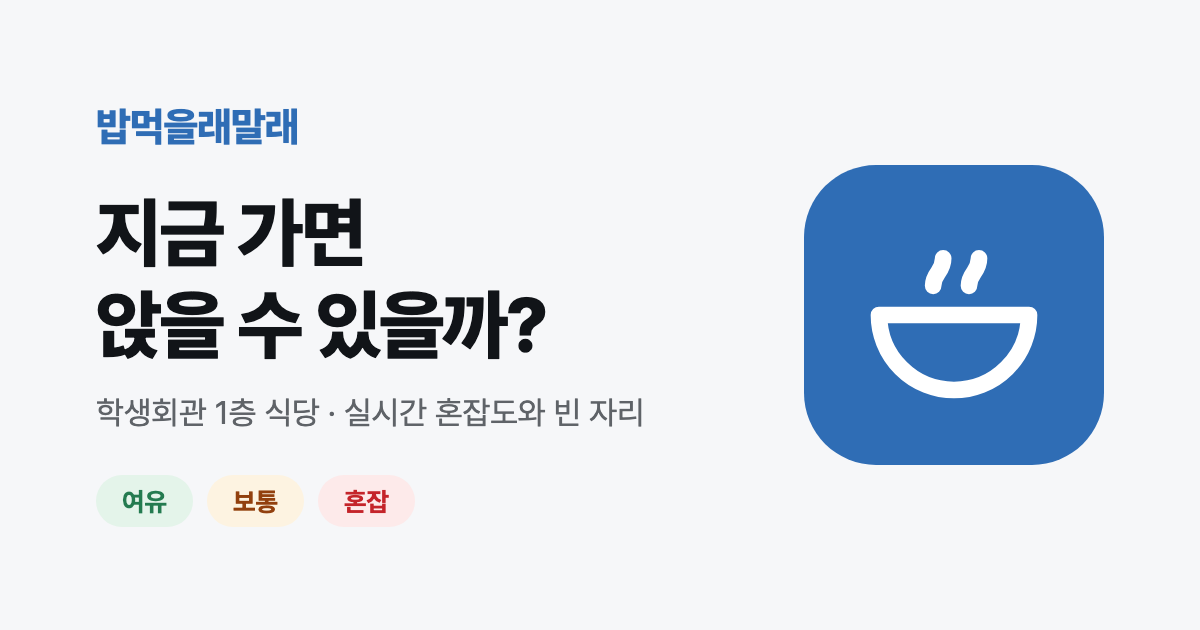
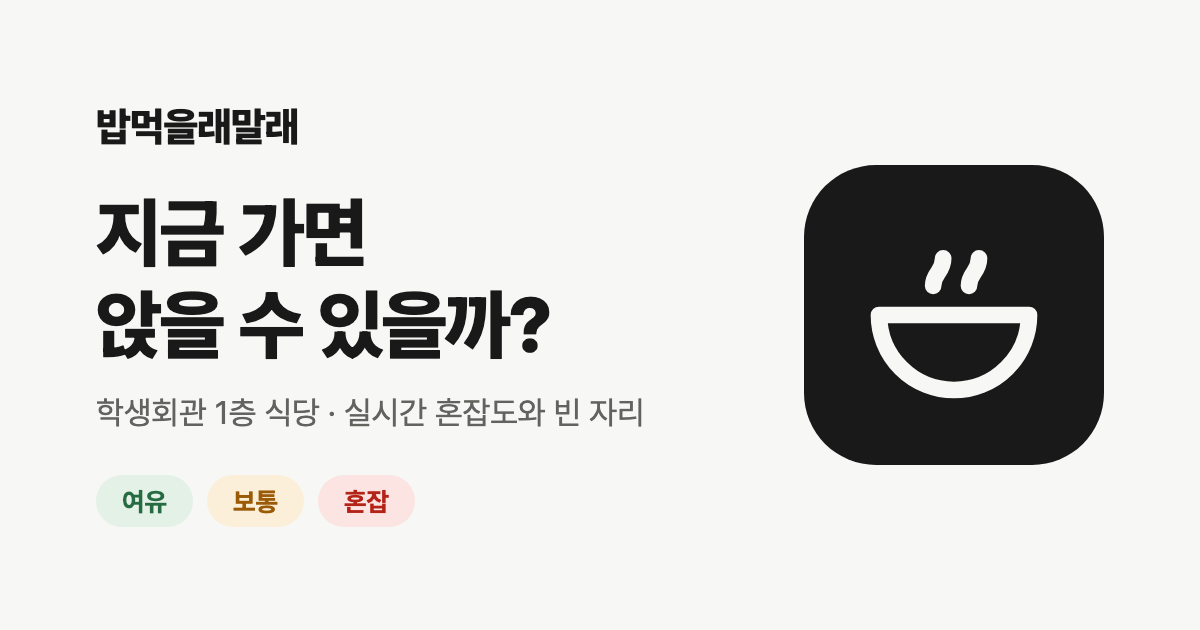
design: 디자인 기준(DESIGN.md·PRODUCT.md) 도입, 흰 바탕 + 먹색으로 개편
- DESIGN.md: 색·글꼴·간격·움직임 규칙과 쓰지 않는 것 다섯 가지, PRODUCT.md: 대상·질문 순서·느낌
- 색: 회백색 바탕(#F7F7F5) + 흰 면 + 먹색(#191919). 초록·노랑·빨강은 여유·보통·혼잡에만
- 글꼴: 제목·숫자 Wanted Sans, 본문 Pretendard (가변 글꼴)
- 판정 칸만 면으로, 그래프·자리 현황·의견은 바탕 위 제목 + 가는 선 (카드 안 카드 제거), 그림자·블러 제거
- 색 바탕 위 글자는 회색 대신 단계 글자색, 집계 안 함 빗금은 중립 회색
- 선택 버튼·지금 막대·사용 중 자리·로고를 먹색으로, 아이콘·공유 이미지·오프라인 화면 새 색
- 작은 휴대폰(360px 이하) 크기 조정, 오프라인 캐시 v3

diff --git a/cafeteria-server/index.html b/cafeteria-server/index.html
@@ -5,7 +5,7 @@
 <meta name="viewport" content="width=device-width, initial-scale=1, viewport-fit=cover">
 <title>밥먹을래말래 · 학생회관 1층 식당</title>
 <meta name="description" content="지금 가면 앉을 수 있을까? 학생회관 1층 식당의 혼잡도와 빈 자리를 실시간으로 보여줘요.">
-<meta name="theme-color" id="themeColor" content="#ffffff">
+<meta name="theme-color" id="themeColor" content="#F7F7F5">
 <link rel="icon" href="/static/icon.svg" type="image/svg+xml">
 <link rel="icon" href="/static/icon-32.png" sizes="32x32" type="image/png">
 <link rel="apple-touch-icon" href="/static/icon-180.png">
@@ -29,7 +29,8 @@
 try{const t=localStorage.getItem("theme"),q=new URLSearchParams(location.search).get("dark");
 if(q==="1"||t==="dark"||(!t&&q!=="0"&&matchMedia("(prefers-color-scheme: dark)").matches))document.documentElement.dataset.dark="1";}catch(e){}
 </script>
-<link rel="stylesheet" href="https://cdn.jsdelivr.net/gh/orioncactus/pretendard@v1.3.9/dist/web/static/pretendard.min.css">
+<link rel="stylesheet" href="https://cdn.jsdelivr.net/gh/orioncactus/pretendard@v1.3.9/dist/web/variable/pretendardvariable-dynamic-subset.min.css">
+<link rel="stylesheet" href="https://cdn.jsdelivr.net/gh/wanteddev/wanted-sans@v1.0.3/packages/wanted-sans/fonts/webfonts/variable/split/WantedSansVariable.min.css">
 <style>
 /* 디자인 기준: 앱 화면 규칙 (평평한 면, 색은 데이터·상태에만, 글자 크기 12/14/16/24/32, 4px 단위 간격) */
 :root{
@@ -531,6 +532,112 @@ html[data-dark] .a2hs{border:1px solid var(--border)}
   .zaxis .pad{width:36px}
   .zpct{display:none}
   .a2hs{margin-bottom:12px}
+}
+
+/* ══ 디자인 기준 (DESIGN.md, 11/6): 흰 바탕 + 먹색, 색은 상태에만, 카드 안의 카드 없음 ══ */
+:root{
+  --ground:#F7F7F5;--surface:#FFFFFF;--raised:#F1F1EE;--active:#E9E9E5;
+  --border:#E6E6E2;--rule:#ECECE8;--control:#CFCFCA;
+  --text:#191919;--muted:#62625E;--faint:#6F6F69;
+  --data:#191919;--data-2:#C8C8C2;--data-tint:rgba(25,25,25,.07);--on-data:#FFFFFF;
+  --ok:#276B43;--ok-fill:#2E8B57;--ok-bg:#E7F3EA;
+  --mid:#9A5A06;--mid-fill:#D99A2B;--mid-bg:#FBEFD9;
+  --busy:#B42318;--busy-fill:#D0402F;--busy-bg:#FBE4E1;
+  --seat-bg:#FFFFFF;--map-line:#D6D6D1;--fx:#EDEDE9;--unm-bg:#EFEFEC;--unm-line:#B5B5AF;
+  --grid-ink:rgba(25,25,25,.06);--usual:#E7E7E2;
+  --r-card:14px;--r-ctl:10px;--shadow:none;
+  --font-head:"Wanted Sans Variable","Wanted Sans","Pretendard Variable",Pretendard,sans-serif;
+}
+html[data-dark]{
+  --ground:#111111;--surface:#1A1A1A;--raised:#212121;--active:#2A2A2A;
+  --border:#2E2E2E;--rule:#272727;--control:#474747;
+  --text:#F2F2F0;--muted:#B3B3AE;--faint:#8F8F8A;
+  --data:#F2F2F0;--data-2:#55554F;--data-tint:rgba(242,242,240,.08);--on-data:#111111;
+  --ok:#5CC48A;--ok-fill:#3FA86E;--ok-bg:#16261C;
+  --mid:#F0B452;--mid-fill:#D99A35;--mid-bg:#2B2213;
+  --busy:#F07A6E;--busy-fill:#E0574A;--busy-bg:#2E1714;
+  --seat-bg:#1A1A1A;--map-line:#393936;--fx:#242424;--unm-bg:#202020;--unm-line:#4A4A47;
+  --grid-ink:rgba(255,255,255,.07);--usual:#2B2B29;--shadow:none;
+}
+body{font-family:"Pretendard Variable",Pretendard,-apple-system,"Apple SD Gothic Neo",sans-serif;letter-spacing:-.005em}
+/* 제목·숫자 글꼴 */
+.say strong,.kpi b,.zcard .zc-free,.card-head h2,.brand b,.sheet-head h2,.zpeaks-head h3,.a2hs-t b,.now-tag,.yaxis,.xlabels{font-family:var(--font-head)}
+.say strong{font-weight:800;letter-spacing:-.025em}
+.kpi b,.zcard .zc-free{font-weight:750;letter-spacing:-.02em;font-variant-numeric:tabular-nums}
+.card-head h2{font-size:20px;line-height:28px;font-weight:750;letter-spacing:-.02em}
+.brand b{font-weight:800}
+/* 머리글: 바탕과 같은 색, 블러 장식 없음 */
+.topbar{background:var(--ground);-webkit-backdrop-filter:none;backdrop-filter:none;border-bottom:1px solid var(--rule)}
+.mark .logo,.sheet-head .logo,.a2hs-ic{background:var(--data);border-radius:10px}
+.mark .logo svg,.sheet-head .logo svg,.a2hs-ic svg{color:var(--on-data)!important}
+/* 판정 칸만 면으로 띄우고, 나머지 구역은 바탕 위에 제목 + 내용 + 가는 선 */
+.card{box-shadow:none}
+.card.answer{background:var(--surface);border:1px solid var(--border)}
+#chartCard,#seats,#fb{background:transparent;border:0;border-radius:0;padding:28px 4px 0;border-top:1px solid var(--rule)}
+.grid{gap:28px}
+/* 판정: 단계 바탕 위 글자는 회색 대신 단계 글자색 */
+.answer[data-level="여유"] .lead,.answer[data-level="여유"] .trend,.answer[data-level="여유"] .occ-labels{color:var(--ok)}
+.answer[data-level="보통"] .lead,.answer[data-level="보통"] .trend,.answer[data-level="보통"] .occ-labels{color:var(--mid)}
+.answer[data-level="혼잡"] .lead,.answer[data-level="혼잡"] .trend,.answer[data-level="혼잡"] .occ-labels{color:var(--busy)}
+.answer[data-level] .trend svg{color:currentColor}
+.answer[data-level] .occ-track{background:rgba(255,255,255,.65)}
+html[data-dark] .answer[data-level] .occ-track{background:rgba(0,0,0,.25)}
+.verdict .pill{background:var(--surface)}
+.kpi small{color:var(--muted)}
+.kpis{border-top-color:var(--rule)}
+.kpi+.kpi{border-left-color:var(--rule)}
+.counters{border-top-color:var(--rule)}
+.cchip{background:var(--surface)}
+.cchip.on{background:var(--ok-bg)}
+/* 버튼: 기본은 먹색, 선택된 버튼도 먹색으로 채움 */
+button.btn{border-color:var(--border);background:var(--surface)}
+.btn.primary{background:var(--data);border-color:var(--data);color:var(--on-data)}
+.btn.toggle{color:var(--muted)}
+.btn.toggle[aria-pressed="true"]{background:var(--data);border-color:var(--data);color:var(--on-data)}
+.btn.icon{background:transparent;border-color:transparent}
+.zone-tabs .btn{border-radius:999px}
+/* 구역 카드: 바탕 위 첫 번째 면 (카드 안 카드 아님) */
+.zcard{background:var(--surface);border:1px solid var(--border);border-radius:var(--r-ctl)}
+.zcard[aria-pressed="true"]{border-color:var(--data);box-shadow:inset 0 0 0 1px var(--data)}
+.map{background:var(--surface);border:1px solid var(--border)}
+.map .seat.occ rect{fill:var(--data);stroke:var(--data)}
+.map .seat.emp rect{stroke:var(--text);stroke-opacity:.55}
+.map .zone.sel rect{stroke:var(--data);fill:var(--data-tint)}
+.map .zone.sel text{fill:var(--text)}
+.tlegend i.emp{border-color:var(--text);opacity:.7}
+.tlegend i.occ{background:var(--data);border-color:var(--data)}
+/* 그래프: 먹색 "지금", 지난 시간은 따뜻한 회색 */
+.bar.now{background:var(--data)}
+.now-tag{color:var(--text)}
+.legend i.past{background:var(--data-2)}
+.zbusy{background:var(--data)}
+/* 피드백 · 시트 · 홈 화면 띠: 면 하나씩만 */
+.fb{border-radius:0}
+.a2hs{background:var(--surface);border:1px solid var(--border);box-shadow:none}
+.sheet{background:var(--surface)}
+.sheet .privacy{background:var(--ok-bg)}
+.sheet .privacy p{color:var(--ok);opacity:.9}
+.netbar{border-bottom-color:var(--rule)}
+footer{border-top:0}
+/* 집계 안 하는 곳: 상태 색 대신 중립 빗금 */
+.map .blind rect{stroke:var(--faint);stroke-opacity:.45}
+.map .blind text{fill:var(--faint)}
+.tlegend i.blind{background:repeating-linear-gradient(45deg,var(--raised) 0 3px,var(--active) 3px 6px);border:1.5px dashed var(--faint)}
+@media (max-width:600px){
+  #chartCard,#seats,#fb{padding:24px 4px 0}
+  .grid{gap:24px}
+  .card-head h2{font-size:19px}
+  .kpi b{font-size:24px;line-height:30px}
+  .say strong{font-size:28px;line-height:36px}
+}
+/* 작은 휴대폰 (아이폰 SE 등) */
+@media (max-width:360px){
+  .brand small{display:none}
+  .say strong{font-size:25px;line-height:32px}
+  .kpi{padding:12px 8px 14px}
+  .kpi b{font-size:20px;line-height:26px}
+  .zcard .zc-free{font-size:19px}
+  .zcard .zc-sub{font-size:11px}
 }
 </style>
 </head>
@@ -1039,7 +1146,7 @@ function renderMap(states, zones){
   const box = $("map"), L = LAYOUT;
   const svg = mk("svg", {viewBox: `0 0 ${L.w} ${L.h}`, role: "img", "aria-label": "식당 자리 배치도"});
   svg.innerHTML = `<defs><pattern id="hatch" width="8" height="8" patternUnits="userSpaceOnUse" patternTransform="rotate(45)">
-    <rect width="8" height="8" fill="var(--busy-bg)"/><line x1="0" y1="0" x2="0" y2="8" stroke="var(--busy)" stroke-opacity=".4" stroke-width="1.4"/></pattern></defs>`;
+    <rect width="8" height="8" fill="var(--raised)"/><line x1="0" y1="0" x2="0" y2="8" stroke="var(--faint)" stroke-opacity=".35" stroke-width="1.4"/></pattern></defs>`;
   const R = L.room || {x: 4, y: 4, w: L.w - 8, h: L.h - 8};
   svg.appendChild(mk("rect", {x: R.x, y: R.y, width: R.w, height: R.h, class: "room", "stroke-width": 2, rx: 8}));
   (L.zones || []).forEach(z => {
@@ -1392,7 +1499,7 @@ function applyTheme(dark){
   const h = document.documentElement;
   if (dark) h.dataset.dark = "1"; else delete h.dataset.dark;
   $("themeBtn").setAttribute("aria-label", dark ? "밝은 화면으로 전환" : "어두운 화면으로 전환");
-  $("themeColor").setAttribute("content", dark ? "#141414" : "#ffffff");
+  $("themeColor").setAttribute("content", dark ? "#111111" : "#F7F7F5");
 }
 applyTheme(!!document.documentElement.dataset.dark);
 $("themeBtn").addEventListener("click", () => {

diff --git a/cafeteria-server/static/offline.html b/cafeteria-server/static/offline.html
@@ -2,15 +2,15 @@
 <html lang="ko"><head><meta charset="utf-8"><meta name="viewport" content="width=device-width, initial-scale=1, viewport-fit=cover">
 <title>밥먹을래말래 · 연결 없음</title>
 <style>
-:root{--bg:#f2f4f6;--card:#fff;--text:#111418;--muted:#5f6368;--blue:#2f6db5}
-@media (prefers-color-scheme:dark){:root{--bg:#0a0a0a;--card:#141414;--text:#f2f2f2;--muted:#b0b0b0;--blue:#5b9bea}}
+:root{--bg:#F7F7F5;--card:#FFFFFF;--text:#191919;--muted:#62625E;--blue:#191919}
+@media (prefers-color-scheme:dark){:root{--bg:#111111;--card:#1A1A1A;--text:#F2F2F0;--muted:#B3B3AE;--blue:#F2F2F0}}
 body{margin:0;min-height:100vh;display:flex;align-items:center;justify-content:center;background:var(--bg);color:var(--text);
   font-family:-apple-system,"Apple SD Gothic Neo","Malgun Gothic",sans-serif;padding:24px;box-sizing:border-box}
 .c{background:var(--card);border-radius:20px;padding:32px 24px;max-width:340px;width:100%;text-align:center;box-shadow:0 6px 24px rgba(0,0,0,.06)}
 img{width:64px;height:64px;border-radius:16px}
 h1{font-size:20px;margin:16px 0 6px}
 p{margin:0 0 20px;color:var(--muted);line-height:1.5;word-break:keep-all}
-button{height:44px;padding:0 20px;border:0;border-radius:12px;background:var(--blue);color:#fff;font:inherit;font-weight:700;width:100%}
+button{height:44px;padding:0 20px;border:0;border-radius:12px;background:var(--blue);color:var(--bg);font:inherit;font-weight:700;width:100%}
 </style></head>
 <body><div class="c"><img src="/static/icon.svg" alt=""><h1>인터넷 연결이 없어요</h1>
 <p>와이파이나 데이터를 확인한 뒤 다시 시도해 주세요.</p><button onclick="location.reload()">다시 시도</button></div></body></html>

diff --git a/cafeteria-server/static/sw.js b/cafeteria-server/static/sw.js
@@ -1,6 +1,6 @@
 // 밥먹을래말래 서비스 워커: 화면은 항상 서버에서 새로 받아 오고(캐시 안 씀),
 // 인터넷이 끊겨 못 받을 때만 "연결이 없어요" 화면을 대신 보여준다.
-const CACHE = "babmeok-offline-v1";
+const CACHE = "babmeok-offline-v3";
 const OFFLINE = "/static/offline.html";
 self.addEventListener("install", e => {
   e.waitUntil(caches.open(CACHE).then(c => c.addAll([OFFLINE, "/static/icon.svg"])).then(() => self.skipWaiting()));

diff --git a/cafeteria-server/DESIGN.md b/cafeteria-server/DESIGN.md
@@ -1,0 +1,64 @@
+# DESIGN.md · 밥먹을래말래
+
+학생용 혼잡도 화면(`index.html`)과 앞으로 만들 화면이 모두 따르는 디자인 기준입니다.
+새 화면이나 요소를 만들 때 여기 없는 색·글꼴을 새로 만들지 않습니다.
+
+## 방향
+
+- **흰 바탕 + 먹색 글자.** 노란 기 없는 아주 옅은 회백색 바탕에 먹색으로 또렷하게. 숫자는 믿음직하게, 온기는 말투와 아이콘으로.
+- **색은 상태에만.** 초록·노랑·빨강은 여유·보통·혼잡을 뜻할 때만 쓴다. 브랜드 강조는 색이 아니라 먹색과 굵기로 한다.
+- **한 화면에 주인공 하나.** 첫 화면의 주인공은 판정 한 줄. 나머지는 그보다 작고 조용하게.
+
+## 색
+
+| 이름 | 밝은 화면 | 어두운 화면 | 쓰는 곳 |
+|---|---|---|---|
+| 바탕 `--ground` | `#F7F7F5` 회백색 | `#111111` | 페이지 바탕 |
+| 면 `--surface` | `#FFFFFF` | `#1A1A1A` | 판정 칸, 구역 카드, 시트 |
+| 글자 `--text` | `#191919` 먹색 | `#F2F2F0` | 본문, 제목, 숫자 |
+| 보조 글자 `--muted` | `#62625E` | `#B3B3AE` | 설명 (바탕에서 대비 5.7:1) |
+| 옅은 글자 `--faint` | `#6F6F69` | `#8F8F8A` | 축 눈금, 캡션 (대비 4.5:1 이상) |
+| 선 `--rule` | `#ECECE8` | `#272727` | 구분선 |
+| 주조색 `--data` | `#191919` 먹색 | `#F2F2F0` | 로고 바탕, 선택 상태, 기본 버튼, "지금" 막대, 사용 중 자리 |
+| 지난 막대 `--data-2` | `#C8C8C2` | `#55554F` | 오늘 지난 시간 막대 |
+| 평소 막대 `--usual` | `#E7E7E2` | `#2B2B29` | 평소 값 |
+| 여유 | 글자 `#276B43` · 바탕 `#E7F3EA` | `#5CC48A` · `#16261C` | 여유 단계 |
+| 보통 | 글자 `#9A5A06` · 바탕 `#FBEFD9` | `#F0B452` · `#2B2213` | 보통 단계 |
+| 혼잡 | 글자 `#B42318` · 바탕 `#FBE4E1` | `#F07A6E` · `#2E1714` | 혼잡 단계 |
+
+색 있는 바탕(판정 칸) 위의 글자는 회색을 쓰지 않고 그 단계의 글자색을 쓴다.
+
+## 글꼴
+
+- **제목·숫자: Wanted Sans Variable** (700~800). 숫자가 단단하고 좁아서 큰 숫자가 잘 읽힌다. 숫자는 `tabular-nums`.
+- **본문: Pretendard Variable** (400~600). 한글 본문 가독성.
+- 크기: 12 · 14 · 16 · 20 · 28 · 32 (판정 한 줄 28~32, 숫자 칸 28).
+
+## 모양과 간격
+
+- 4px 단위. 구역 사이 32px, 구역 안 16px.
+- **카드 안에 카드 금지.** 판정 칸만 면(`--surface`)으로 띄우고, 나머지 구역은 바탕 위에 제목 + 내용 + 가는 선으로 나눈다.
+- 모서리 14px(면), 10px(버튼·작은 카드), 999px(상태 알약).
+- 그림자 없음. 면과 바탕의 색 차이와 1px 선으로만 구분한다.
+- 손가락으로 누르는 것은 높이 40px 이상(휴대폰 44px).
+
+## 움직임
+
+- 200~280ms, `cubic-bezier(.23,1,.32,1)`로 짧게 멈춘다. 튕기는 효과 없음.
+- 숫자가 바뀔 때만 살짝 올라온다. 계속 반복되는 장식 애니메이션 없음(불러오는 중 자리 표시만 예외).
+- `prefers-reduced-motion`이면 모두 끈다.
+
+## 쓰지 않는 것
+
+(11/6 바탕을 크림색 `#F6F2EA`에서 회백색으로 바꿈: 휴대폰에서 누렇게 보였음)
+
+
+1. 보라·파랑 그라데이션, 유리(블러) 장식 카드
+2. 카드 안에 카드, 똑같은 카드 세 장 나열
+3. 색 있는 바탕 위의 회색 본문, 튕기는 바운스 효과
+4. Inter·Roboto·시스템 기본 글꼴만 쓰는 화면
+5. 상태 뜻 없이 초록·노랑·빨강을 장식으로 쓰기
+
+## 조절값 (Taste 기준)
+
+DESIGN_VARIANCE 4 (반듯하지만 판정 칸만 크게) · MOTION_INTENSITY 3 (조용히) · VISUAL_DENSITY 4 (휴대폰 한 화면에 판정·숫자·배식대까지)

diff --git a/cafeteria-server/PRODUCT.md b/cafeteria-server/PRODUCT.md
@@ -1,0 +1,25 @@
+# PRODUCT.md · 밥먹을래말래
+
+## 무엇
+학생회관 1층 식당의 지금 혼잡도와 빈 자리를 카메라로 세어 보여주는 웹 앱. 홈 화면에 추가해 앱처럼 쓴다.
+
+## 누가, 언제
+- 점심 직전 강의실에서 나오며 휴대폰으로 **3초 안에** "지금 가도 되나"를 확인하는 학생
+- 친구와 "어디 앉지?"를 정할 때 구역별 빈 자리를 보는 학생
+- 대부분 휴대폰 세로 화면, 한 손. PC는 보조.
+
+## 답해야 하는 질문 (중요한 순서)
+1. 지금 가면 앉을 수 있나? → 판정 한 줄 + 빈 테이블 수
+2. 주문 줄은 얼마나? 배식대는 열었나? → 주문 대기, 배식대 영업 상태
+3. 어디가 비었나? → 구역 카드, 배치도
+4. 평소엔 언제 붐비나? → 시간대 그래프, 구역별 붐비는 때
+
+## 느낌
+가볍고 친근하지만 숫자는 믿음직하게. 학교 공지 같은 딱딱함도, 광고 같은 화려함도 아닌 "잘 만든 동네 앱".
+
+## 하지 않는 것
+- 카메라·집계 방식 같은 만든 사람 쪽 정보를 학생 화면에 늘어놓지 않는다 (팀 통계 `/stats`에서 본다)
+- 영상·사진을 보여주지 않는다 (영상은 저장·전송하지 않음)
+
+## 참고
+토스(숫자 하나를 크게), 배민(친근한 말투), 지도 앱의 실시간 혼잡도 표시
